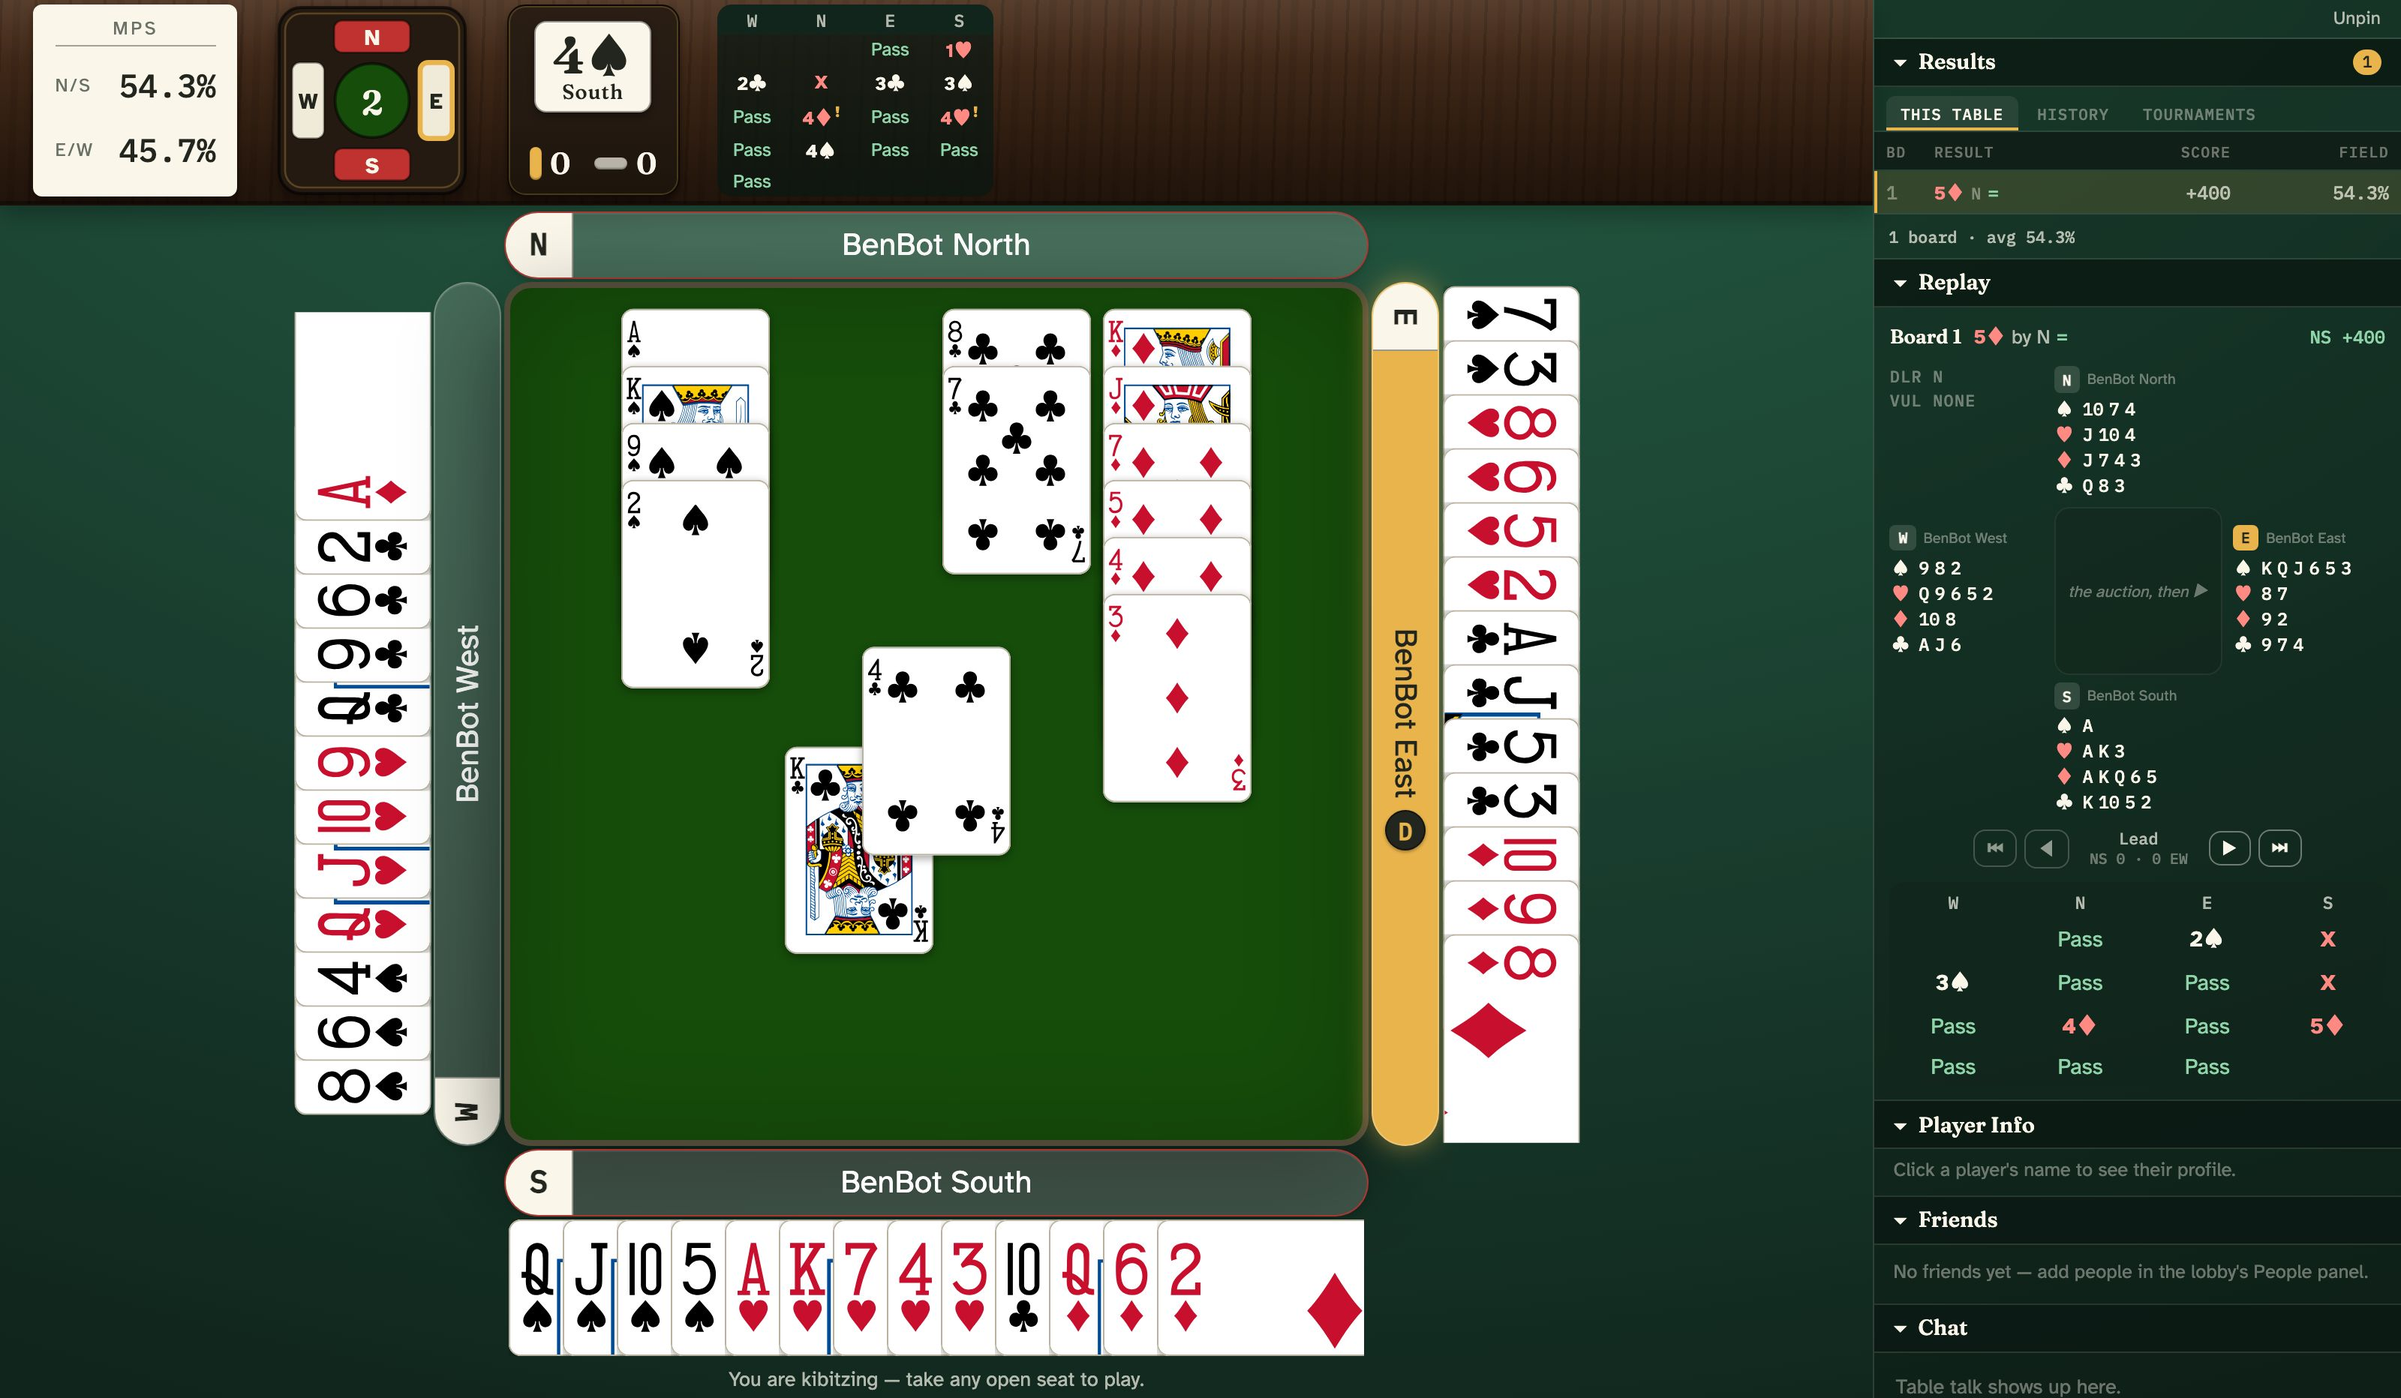
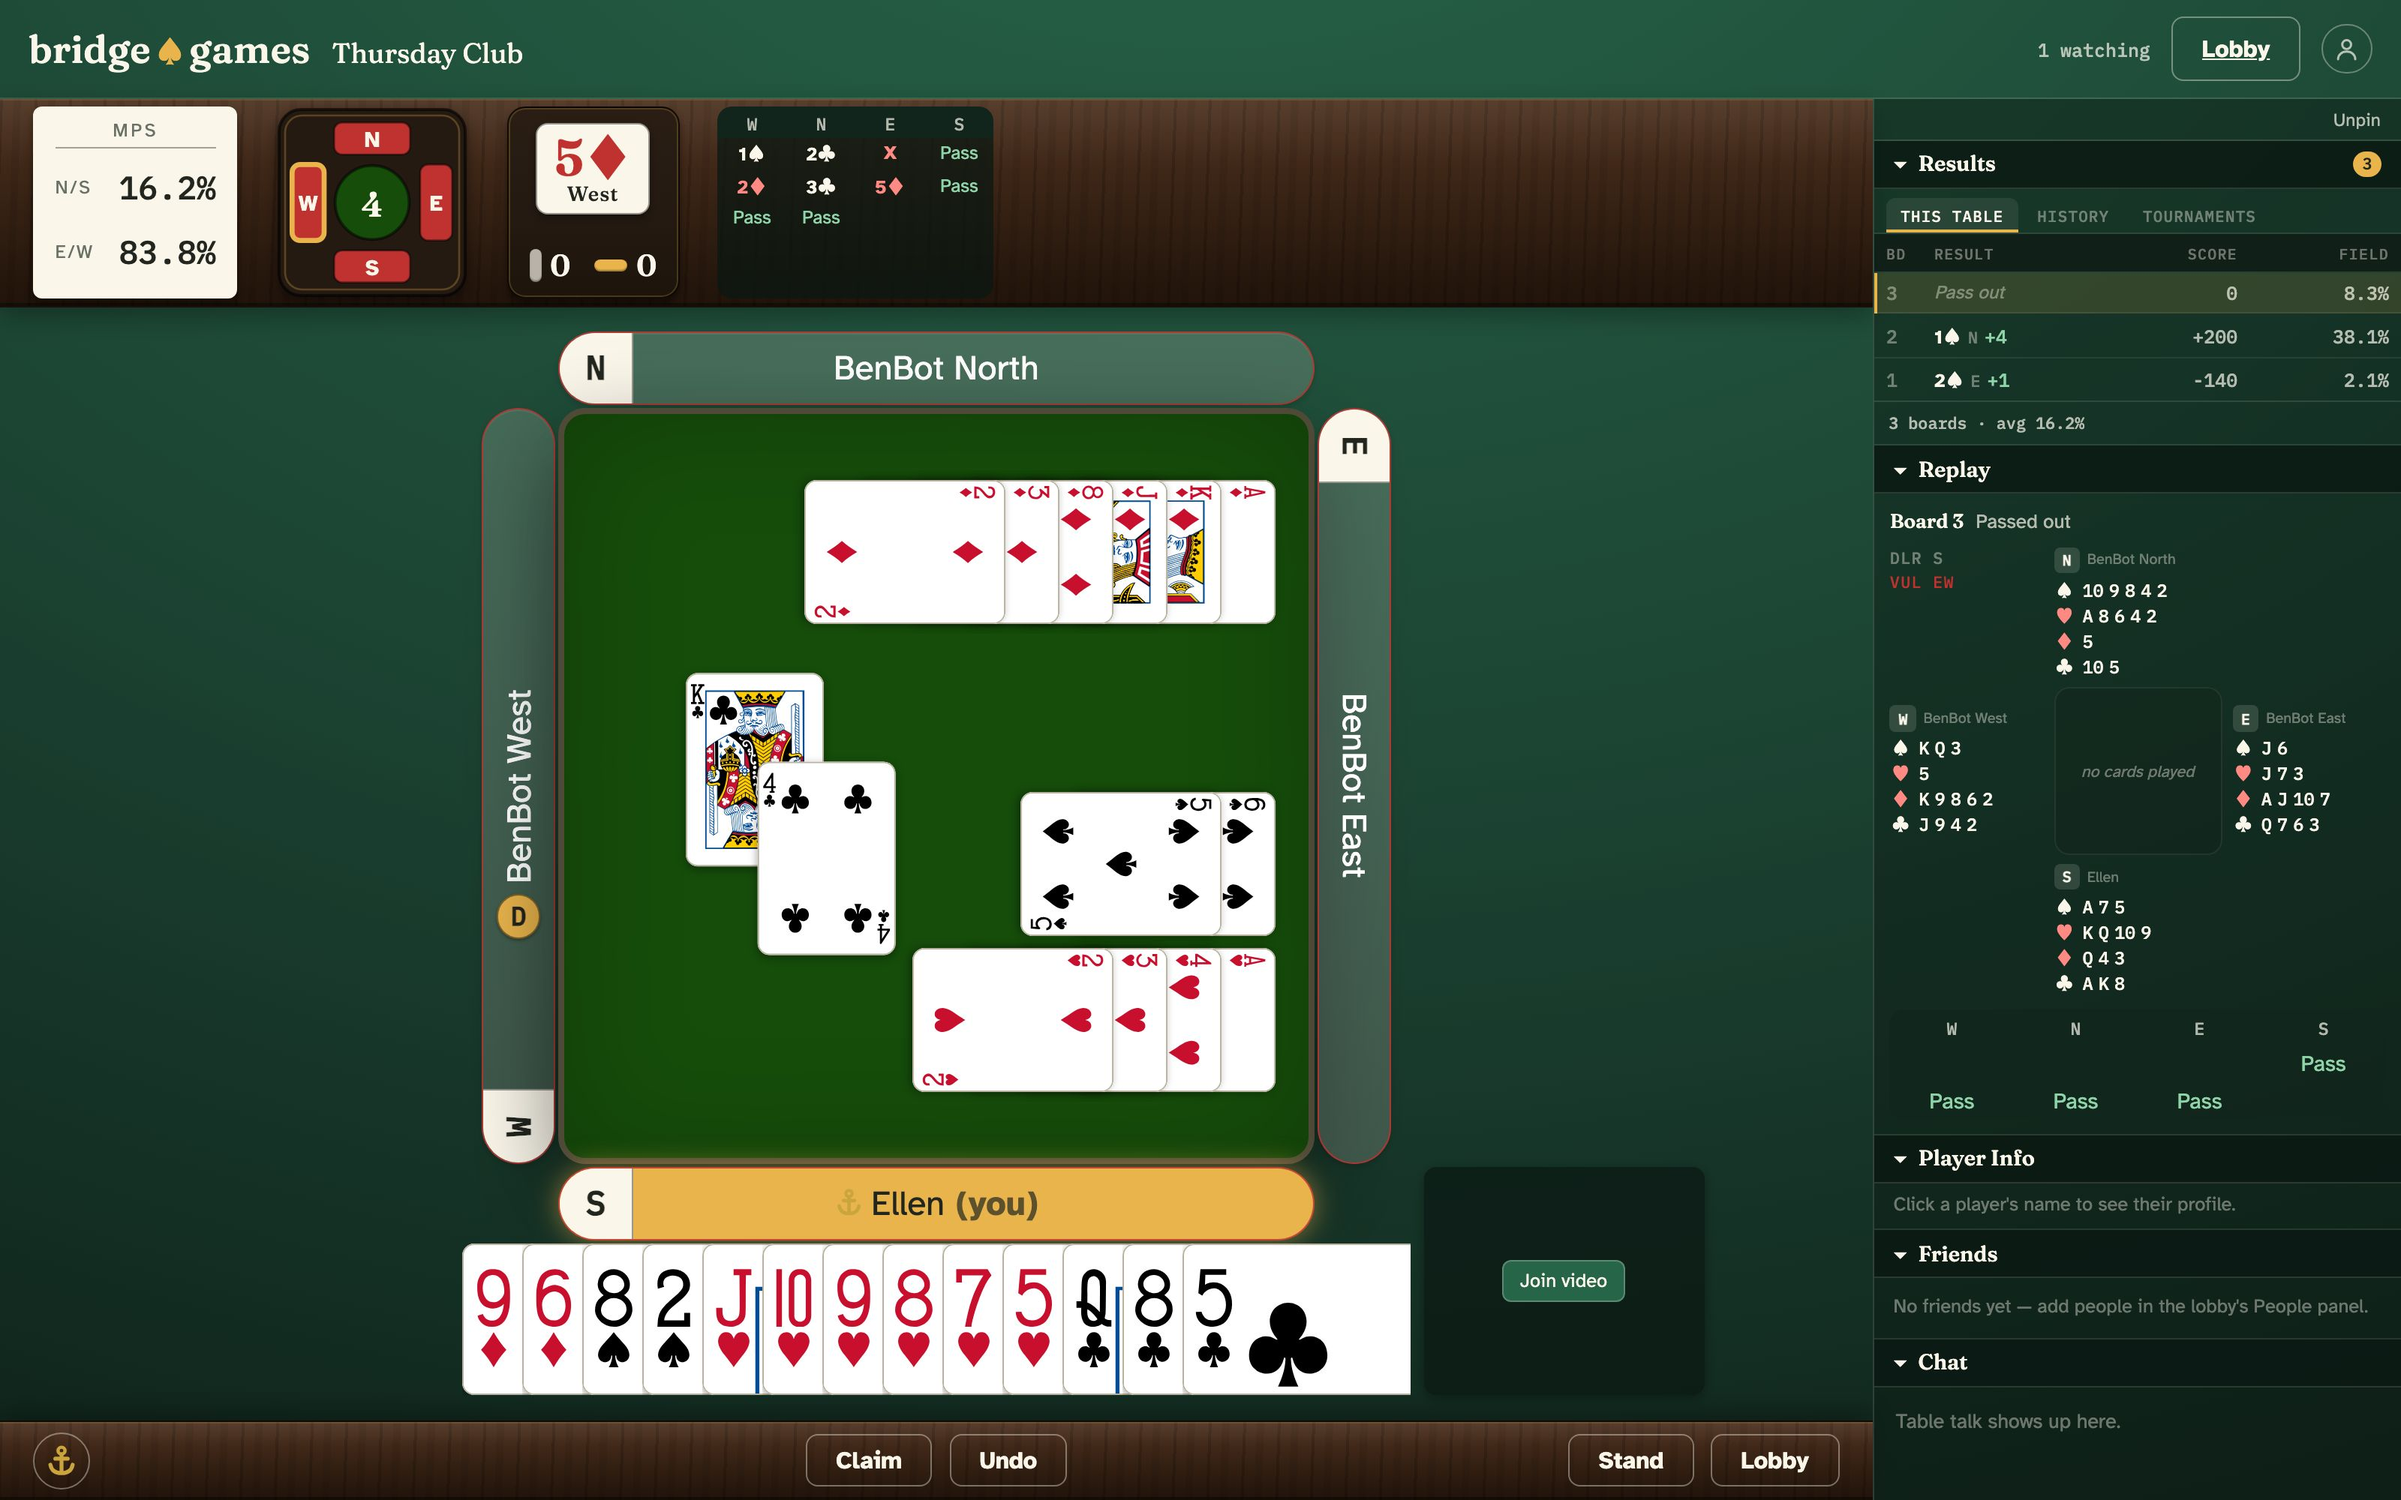
Hero and phone shots become the player's own view, not the rail's
Denny's point: three visible hands reads as neither a player's view nor
today's see-all kibitzer view, and a prospective player wants to see their
seat. A temporary player (Ellen) sat South with three bots; a channel
script passed her auctions and played lowest legal cards until a board
held mid-play on her turn. The new shots show only her hand and dummy,
the gold your-turn nameplate, the command bar a seated player gets, a
Join video corner, a genuinely scored drawer, and a real '1 watching'.

diff --git a/index.html b/index.html
@@ -49,10 +49,10 @@
       </div>
       <figure class="hero-figure">
         <img src="/images/hero-table.jpg"
-             alt="A bridge.games table mid-hand: South declaring four spades with dummy laid out on the felt, and the side drawer showing the previous board's score against the field, the full deal, and its auction"
-             width="3200" height="1864">
-        <figcaption>A real session in progress, seen from the rail &mdash; the next board on the felt,
-        the last one scored and replayable in the drawer. In your own seat, your cards are yours alone.</figcaption>
+             alt="Your seat at a bridge.games table, mid-hand: your cards fanned at the bottom, dummy laid out on the felt, two cards in the trick and it's your play, with three scored boards in the side drawer and one kibitzer watching"
+             width="3200" height="2000">
+        <figcaption>Your seat, your play: only your own cards and the dummy are face up, the session
+        is scored board by board in the drawer &mdash; and one kibitzer is watching from the rail.</figcaption>
       </figure>
     </div>
   </section>
@@ -248,7 +248,7 @@
         </div>
         <figure class="split-media phone-figure">
           <img src="/images/phone-table.jpg"
-               alt="A bridge.games hand on a phone: the hand record strip, board wallet, and a trick being played"
+               alt="Your seat on a phone: your hand fanned at the bottom, dummy on the felt, a trick in progress, and the claim and undo controls along the bottom"
                width="1170" height="2532">
           <figcaption>Phones deal you in too &mdash; cards-only, video stays on bigger screens.</figcaption>
         </figure>

diff --git a/README.md b/README.md
@@ -59,11 +59,15 @@ has to exist before launch.
 ## Screenshot provenance
 
 All app images are real screenshots of bridge.games taken 2026-08-14 on the
-live server via a kibitzed bot table (`kibitzers_see_all` enabled so all four
-hands show). To retake: create a table with four bots, kibitz it in a browser
-at 1600×1000@2x, screenshot, crop. `images/og-image.jpg` is a 1200×630 crop of
-the hero shot for link previews. The video-section "four corners" figure is a
-CSS illustration (bots have no cameras), deliberately stylized rather than a
+live server. The hero and phone shots are a **seated player's own view**: a
+temporary account ("Ellen") sat South with three bots, a script passed her
+auctions and played her lowest legal cards over the channel until a board
+mid-play with her on turn — so the shot shows only her hand plus dummy, the
+gold your-turn nameplate, the Claim/Undo command bar, and a genuinely scored
+drawer ("1 watching" is a real kibitzer). The lobby and replay-panel images
+came from a kibitzed bot table. `images/og-image.jpg` is a 1200×630 crop of
+the hero for link previews. The video-section "four corners" figure is a CSS
+illustration (bots have no cameras), deliberately stylized rather than a
 faked screenshot.
 
 ## Honesty guardrails for future copy
